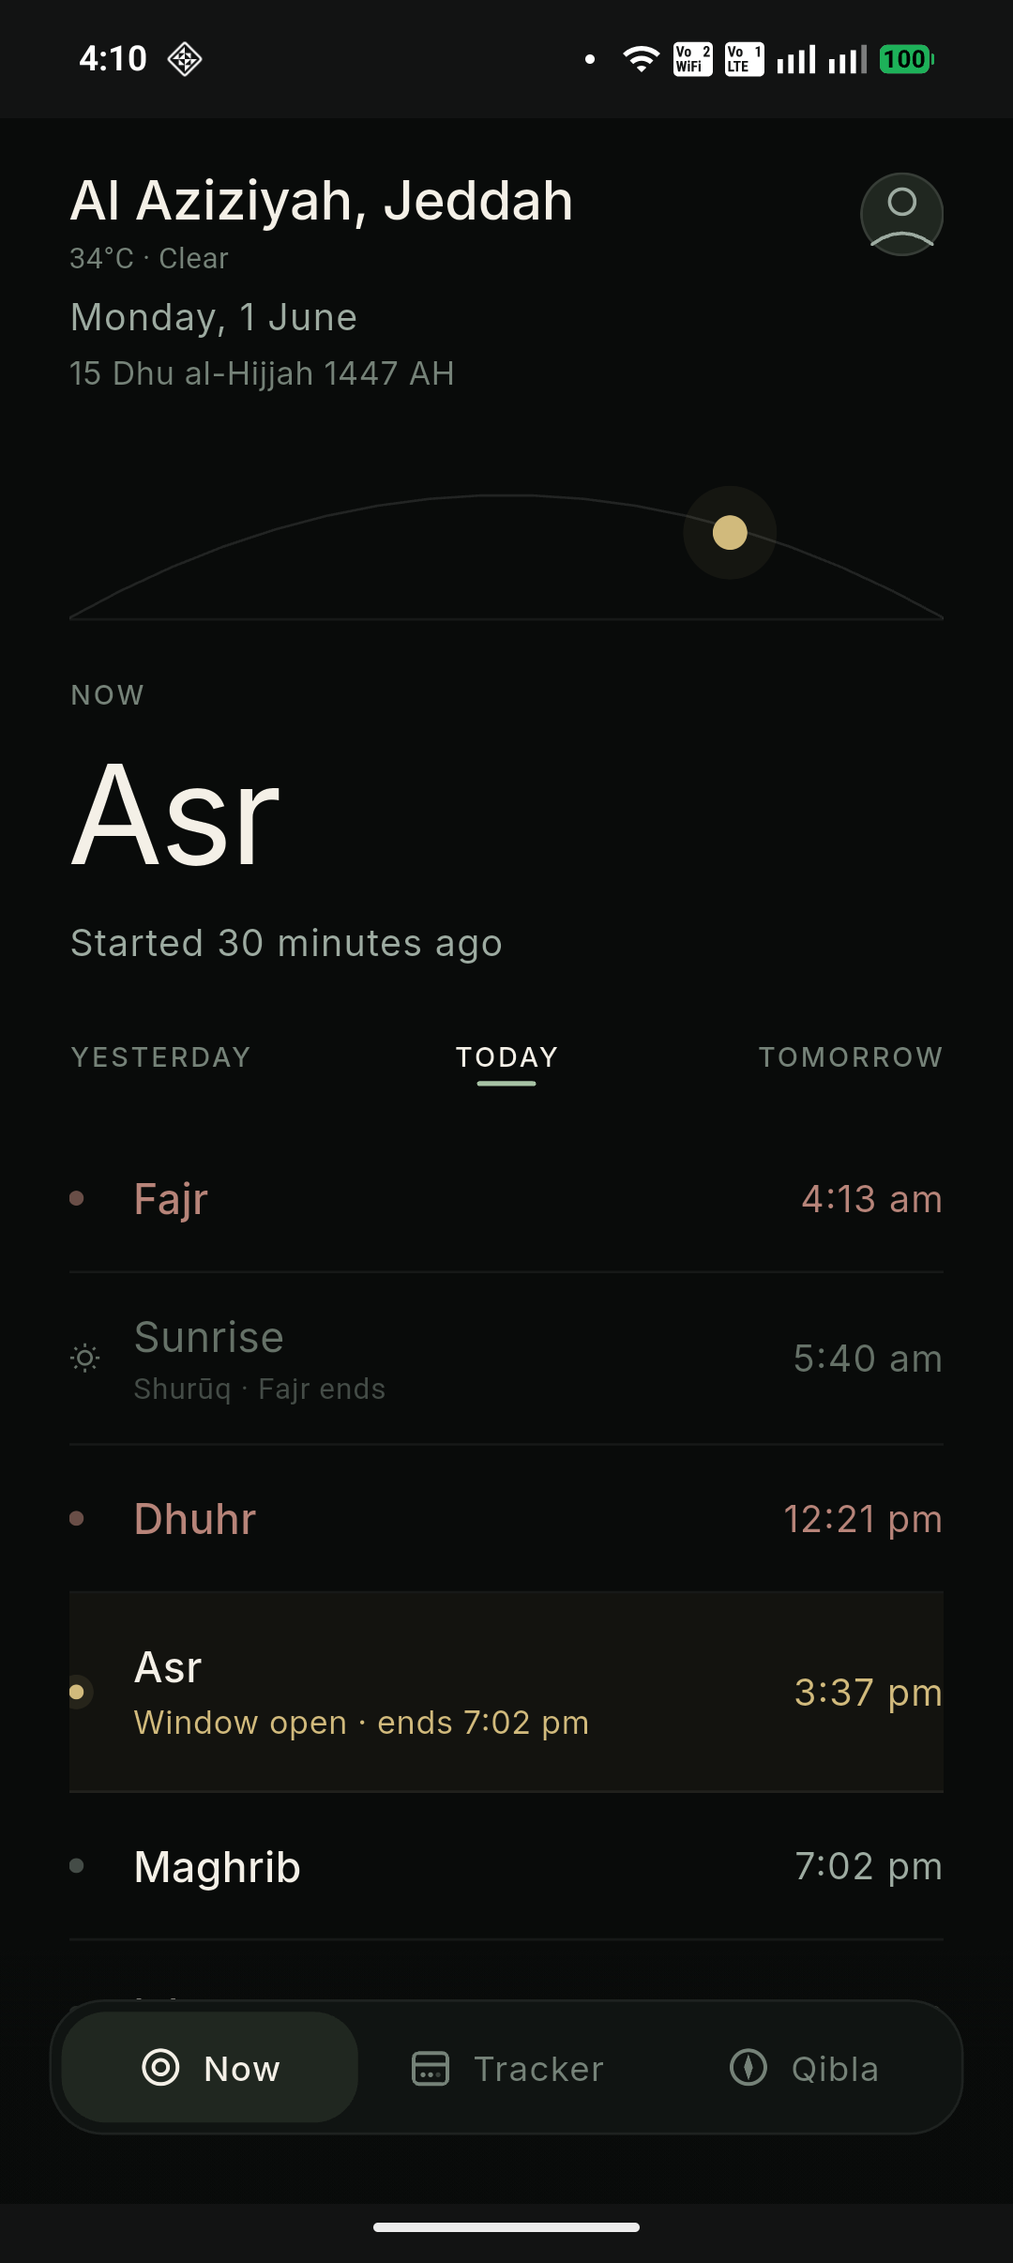
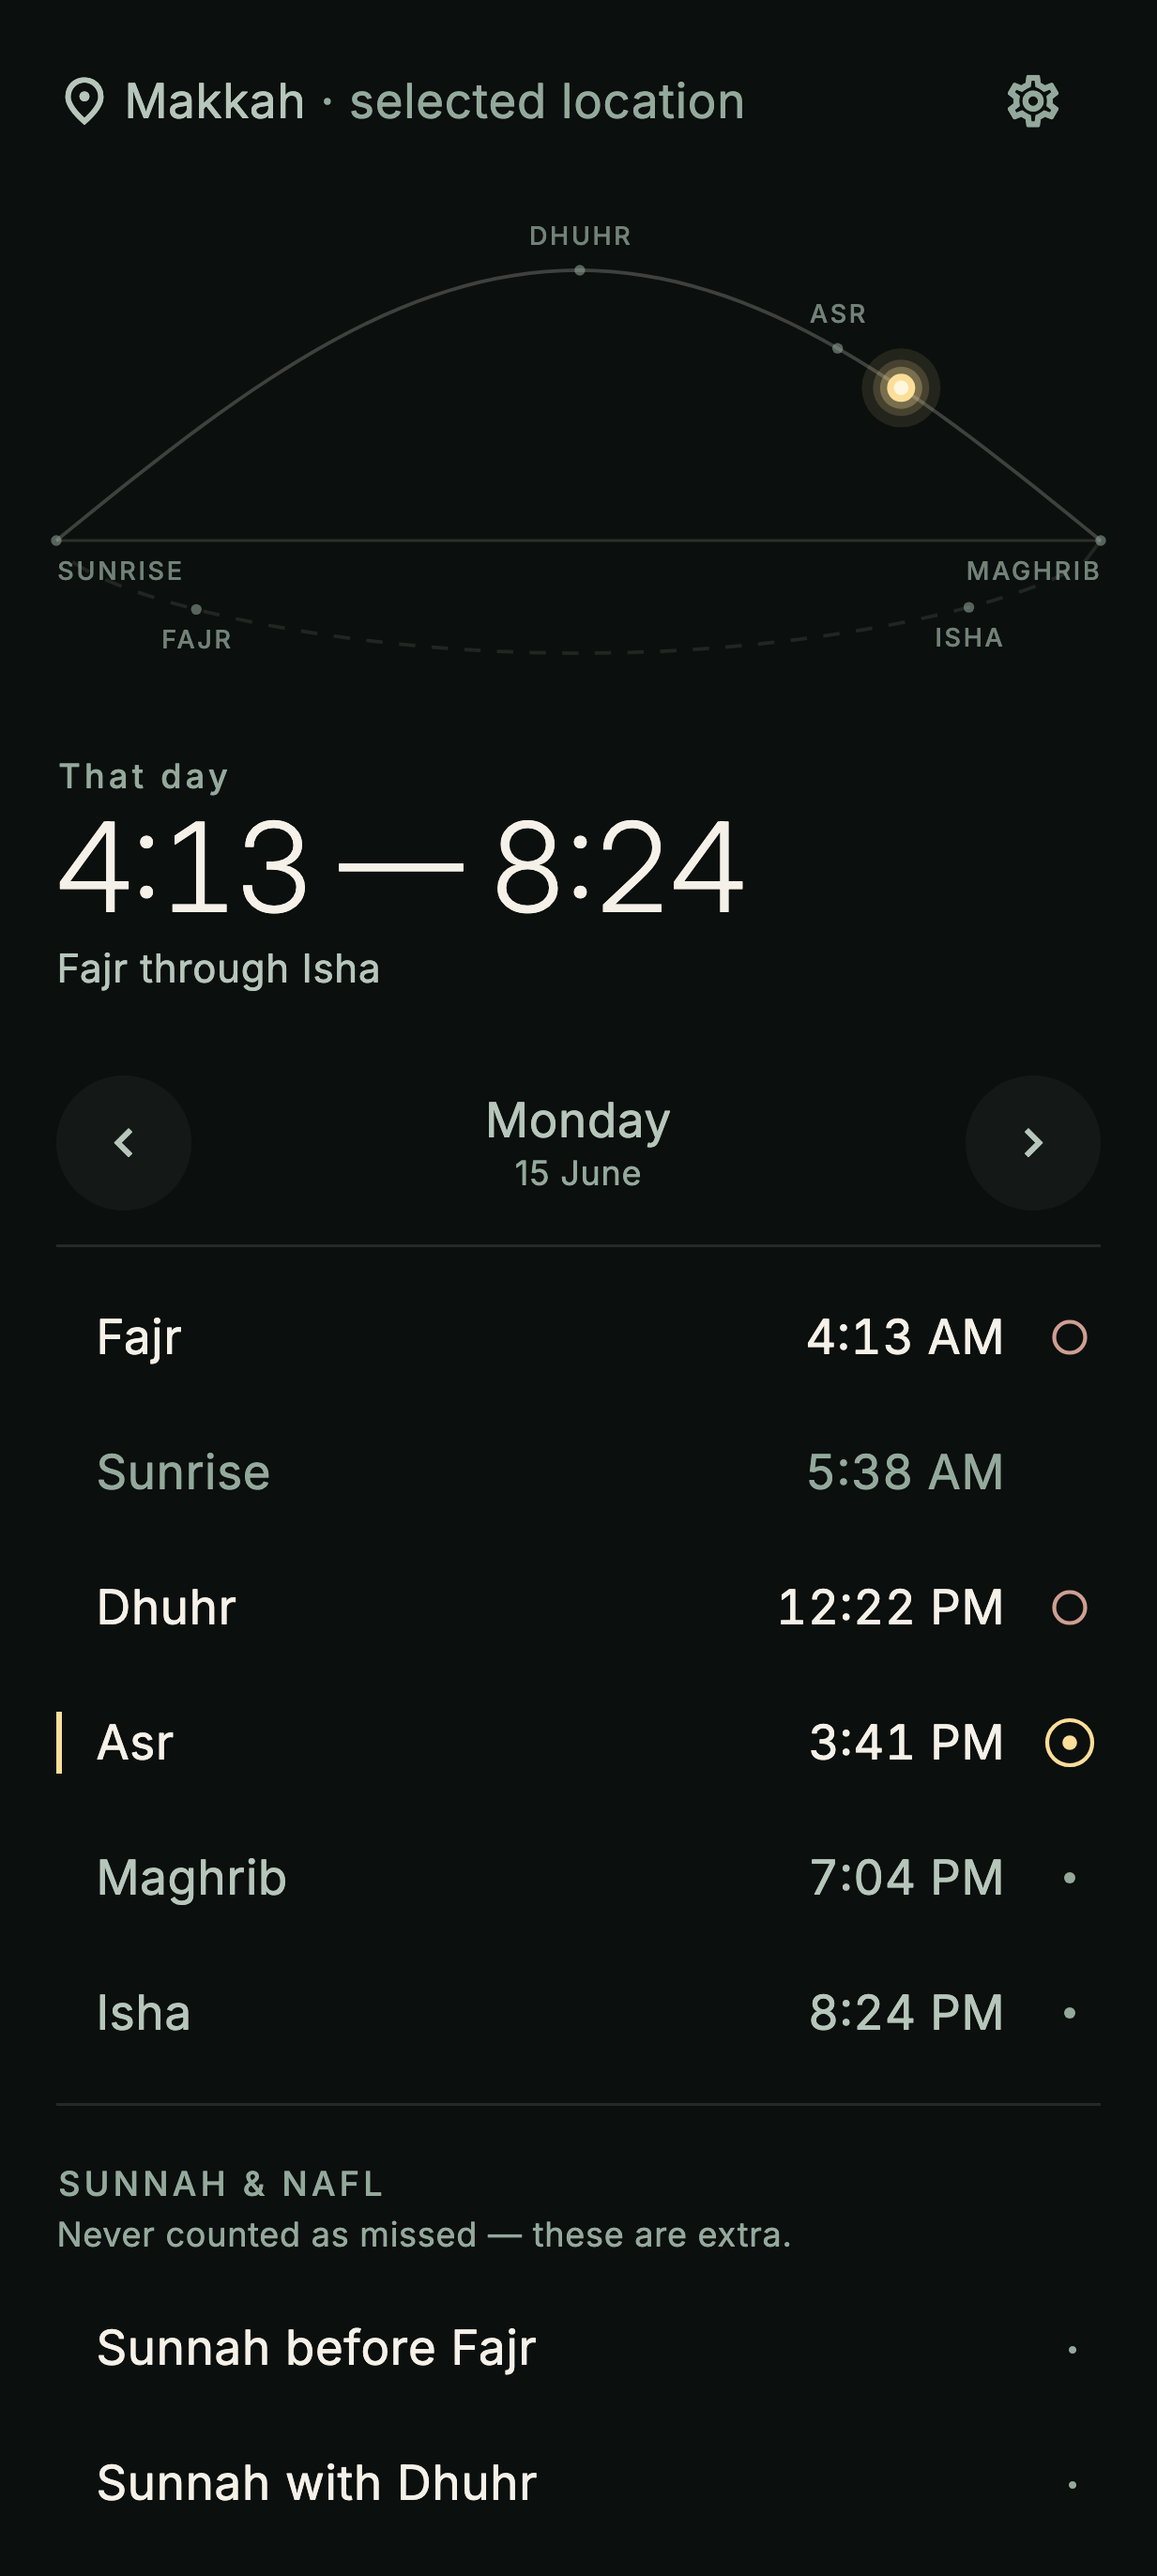
Site: 2.0 screenshots, and drop the screen that no longer exists
Every screenshot on the site was 1.0 — none showed the current design and
none showed the Qur'an reader.

- prayer-times, qibla and tracker replaced with 2.0 renders, and their
  width/height corrected from 1080x2412 to the new 1233x2745 so nothing is
  distorted. Alt text rewritten to describe what is now actually pictured.
- The "Profile" section is gone. It described a screen 2.0 does not have —
  the app's tabs are Now, Record, Qibla and Quran — so it was advertising a
  fourth screen that no longer exists. Its slot now carries the Qur'an
  reader, which had no illustration at all, and the earlier text-only Qur'an
  section is removed rather than duplicated.

diff --git a/index.html b/index.html
@@ -361,7 +361,7 @@
             <figure class="phone">
               <div class="device">
                 <div class="screen">
-                  <img src="prayer-times.png" width="1080" height="2412" loading="lazy" alt="The Now screen: the current prayer, Asr, shown above today's prayer times for Al Aziziyah, Jeddah">
+                  <img src="prayer-times.png" width="1233" height="2745" loading="lazy" alt="The Now screen: the sun on its arc across the day, with today’s prayer times listed below">
                 </div>
               </div>
             </figure>
@@ -383,7 +383,7 @@
             <figure class="phone">
               <div class="device">
                 <div class="screen">
-                  <img src="qibla.png" width="1080" height="2412" loading="lazy" alt="The Qibla screen: a calm compass pointing toward the Qibla direction, marked 103 degrees">
+                  <img src="qibla.png" width="1233" height="2745" loading="lazy" alt="The Qibla screen: a calm compass pointing toward the Qibla direction, marked 103 degrees">
                 </div>
               </div>
             </figure>
@@ -405,7 +405,7 @@
             <figure class="phone">
               <div class="device">
                 <div class="screen">
-                  <img src="tracker.png" width="1080" height="2412" loading="lazy" alt="The Tracker screen: a quiet monthly calendar view for personal reflection, titled Quietly looking back">
+                  <img src="tracker.png" width="1233" height="2745" loading="lazy" alt="The Record screen: a month of prayers marked as rings on a calendar, with the month’s figures below">
                 </div>
               </div>
             </figure>
@@ -418,16 +418,16 @@
       <div class="wrap">
         <div class="showcase showcase--reverse">
           <div class="sc-text">
-            <p class="eyebrow">Profile</p>
-            <h2 id="profile">Your prayer journey, kept for you alone</h2>
-            <p>A quiet, honest summary of your own practice — this month and the last thirty days, with voluntary prayers if you keep them. Figures for reflection, never a scoreboard, and never shared.</p>
-            <p class="trust"><span class="d" aria-hidden="true"></span>Every number stays on your device — yours to learn from, not to perform.</p>
+            <p class="eyebrow">The Qur’an</p>
+            <h2 id="profile">The complete Arabic text, carried with you</h2>
+            <p>All 114 surahs and 6,236 verses, on your phone — no download, no connection, nothing to sign into. Four typefaces to read in, your place kept for you, and every ayah marked with the true rosette.</p>
+            <p class="trust"><span class="d" aria-hidden="true"></span>Tanzil’s Uthmani edition, verified character by character against its published source.</p>
           </div>
           <div class="sc-media">
             <figure class="phone">
               <div class="device">
                 <div class="screen">
-                  <img src="profile.png" width="1080" height="2412" loading="lazy" alt="The Profile screen: a private summary titled Your prayer journey, showing prayers completed this month and reflection figures for the past thirty days">
+                  <img src="quran.png" width="1233" height="2745" loading="lazy" alt="The Qur’an reader open at Al-Faatiha, showing all seven verses in vocalised Arabic, each closed with an ayah rosette">
                 </div>
               </div>
             </figure>
@@ -438,16 +438,6 @@
 
     <div class="rule-wrap"><hr class="rule"></div>
 
-    <section class="center" aria-labelledby="quran">
-      <div class="wrap prose">
-        <p class="eyebrow">The Qur’an</p>
-        <h2 id="quran">The complete Arabic text, carried with you</h2>
-        <p>All 114 surahs and 6,236 verses, in Arabic, on your phone — no download, no connection, nothing to sign into. Choose the typeface you read best in, go to any surah, juz or page, and the app keeps your place for you.</p>
-        <p style="color:var(--muted);">The text is Tanzil’s Uthmani edition, verified character by character against its published source, and every ayah carries the true rosette rather than a bracketed number.</p>
-      </div>
-    </section>
-
-    <div class="rule-wrap"><hr class="rule"></div>
 
     <section class="center quiet" aria-labelledby="reminders">
       <div class="wrap prose">
